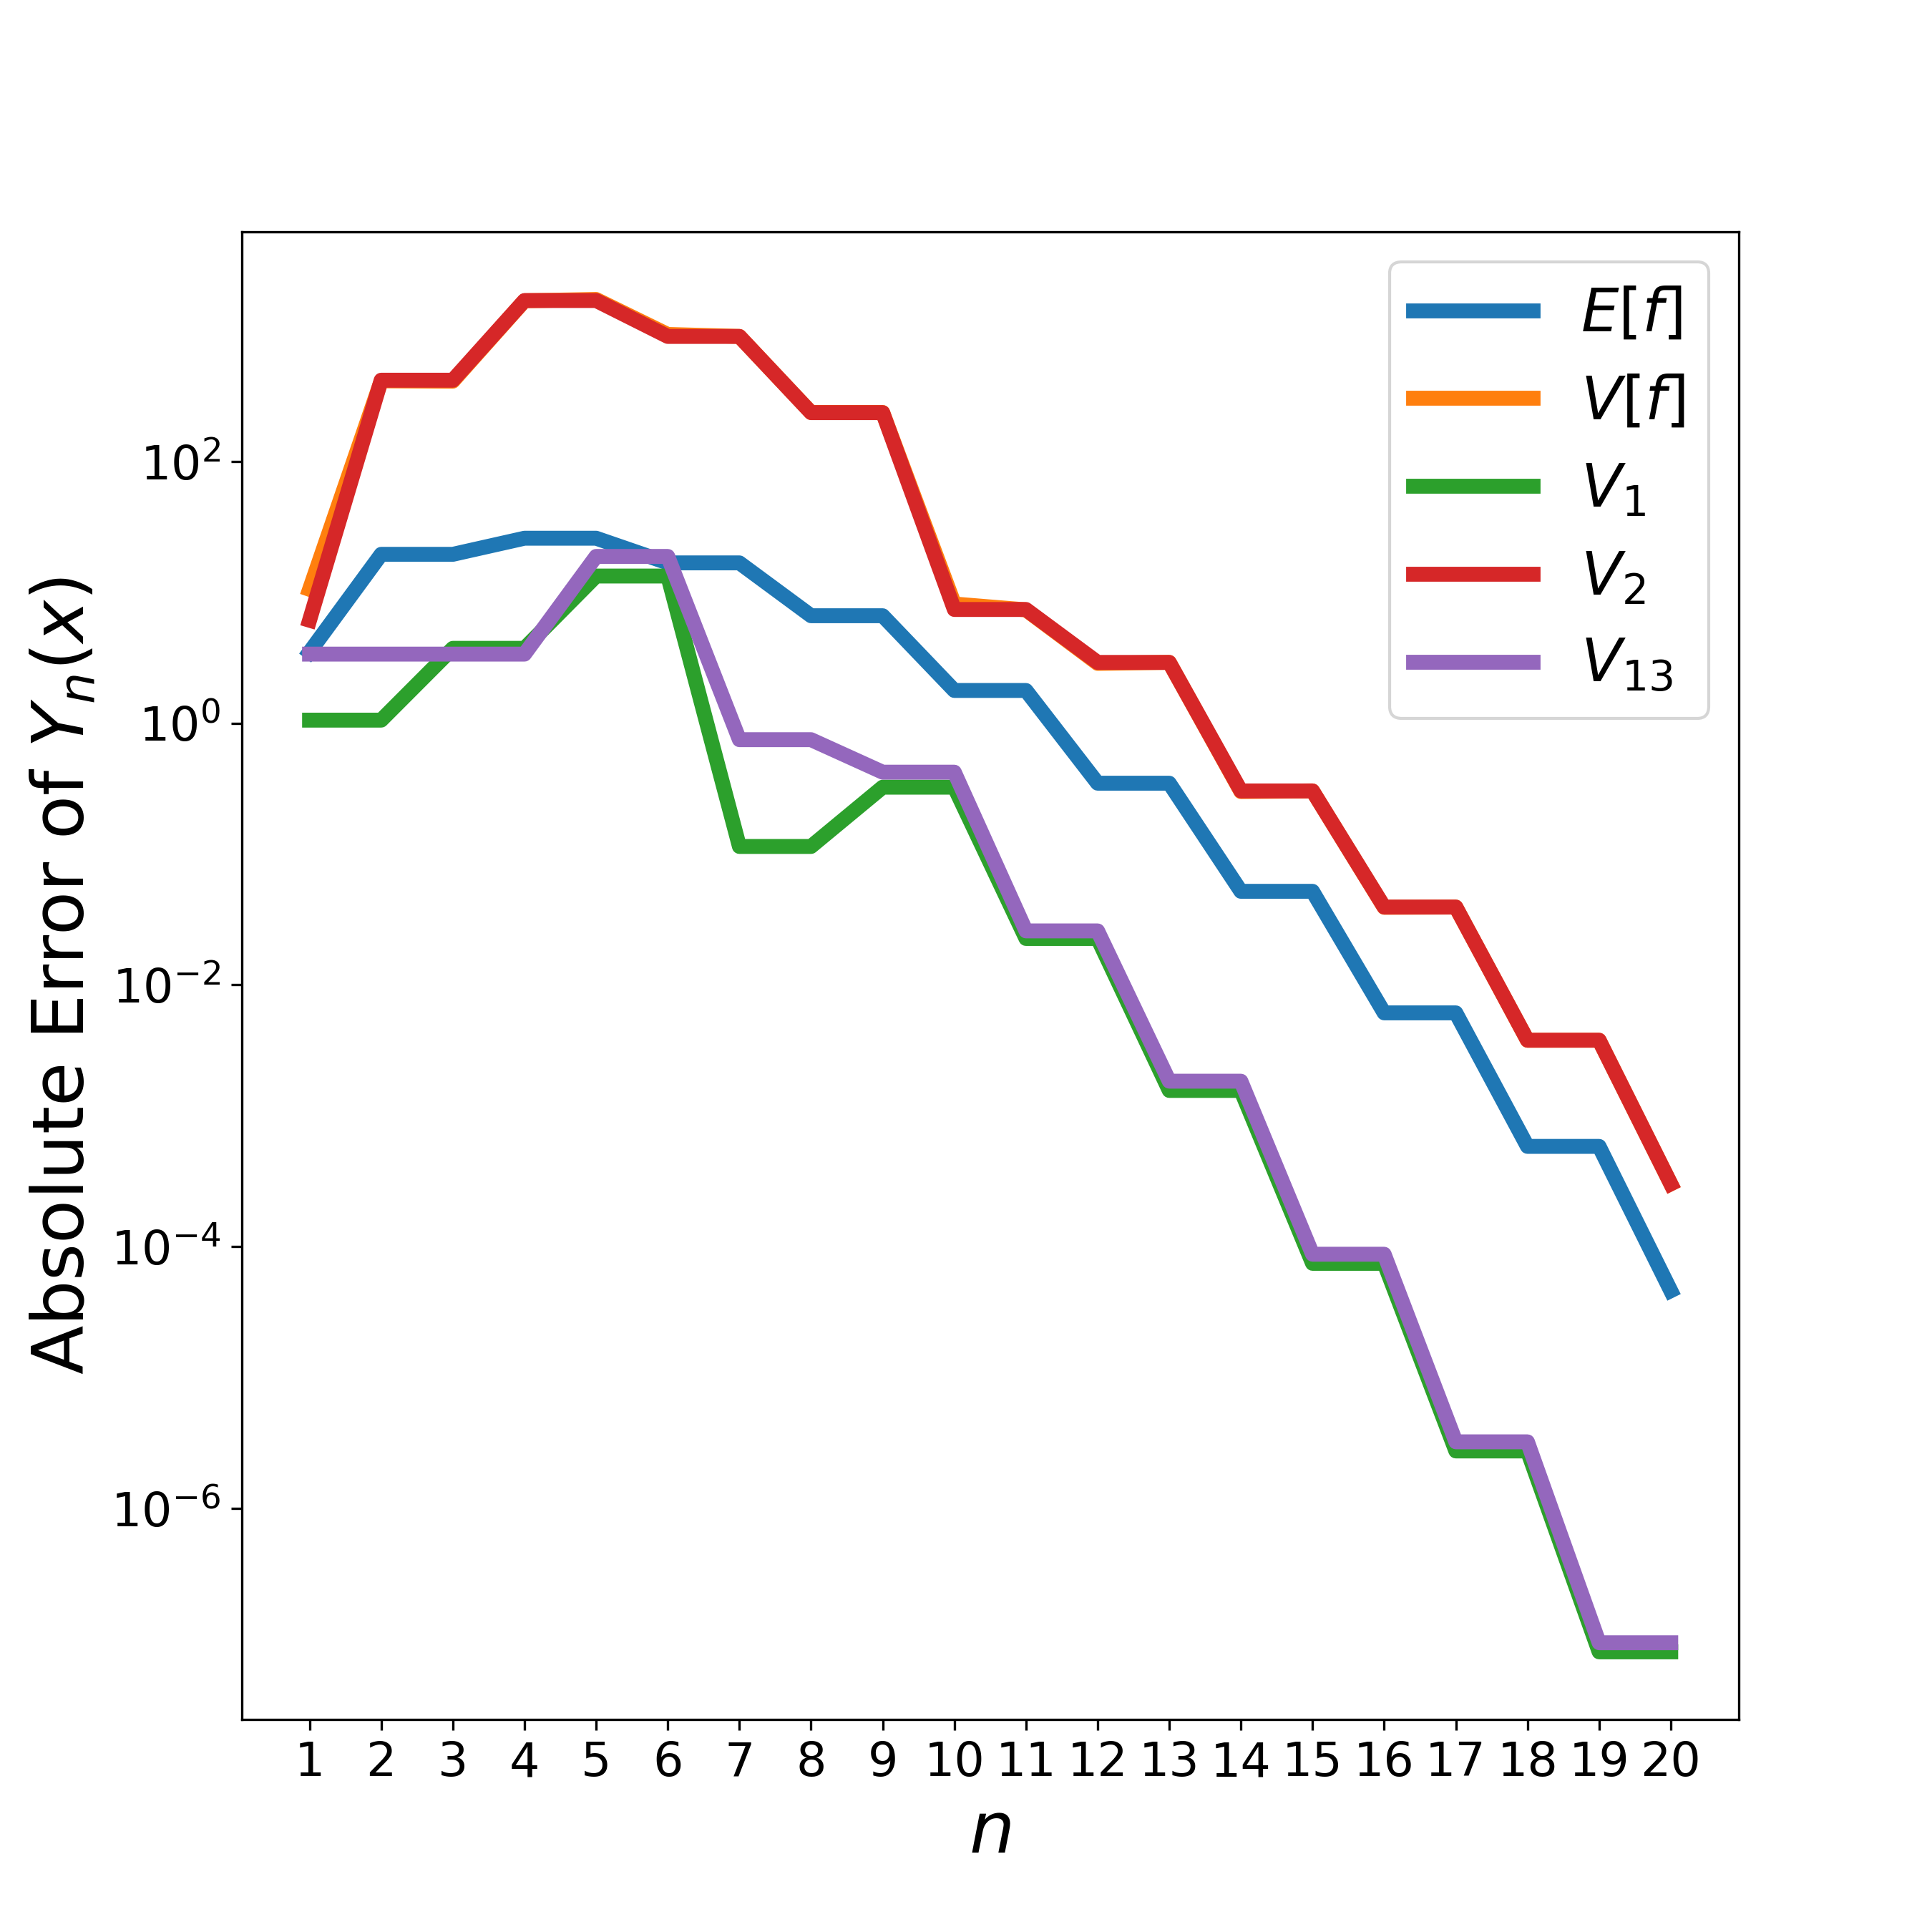
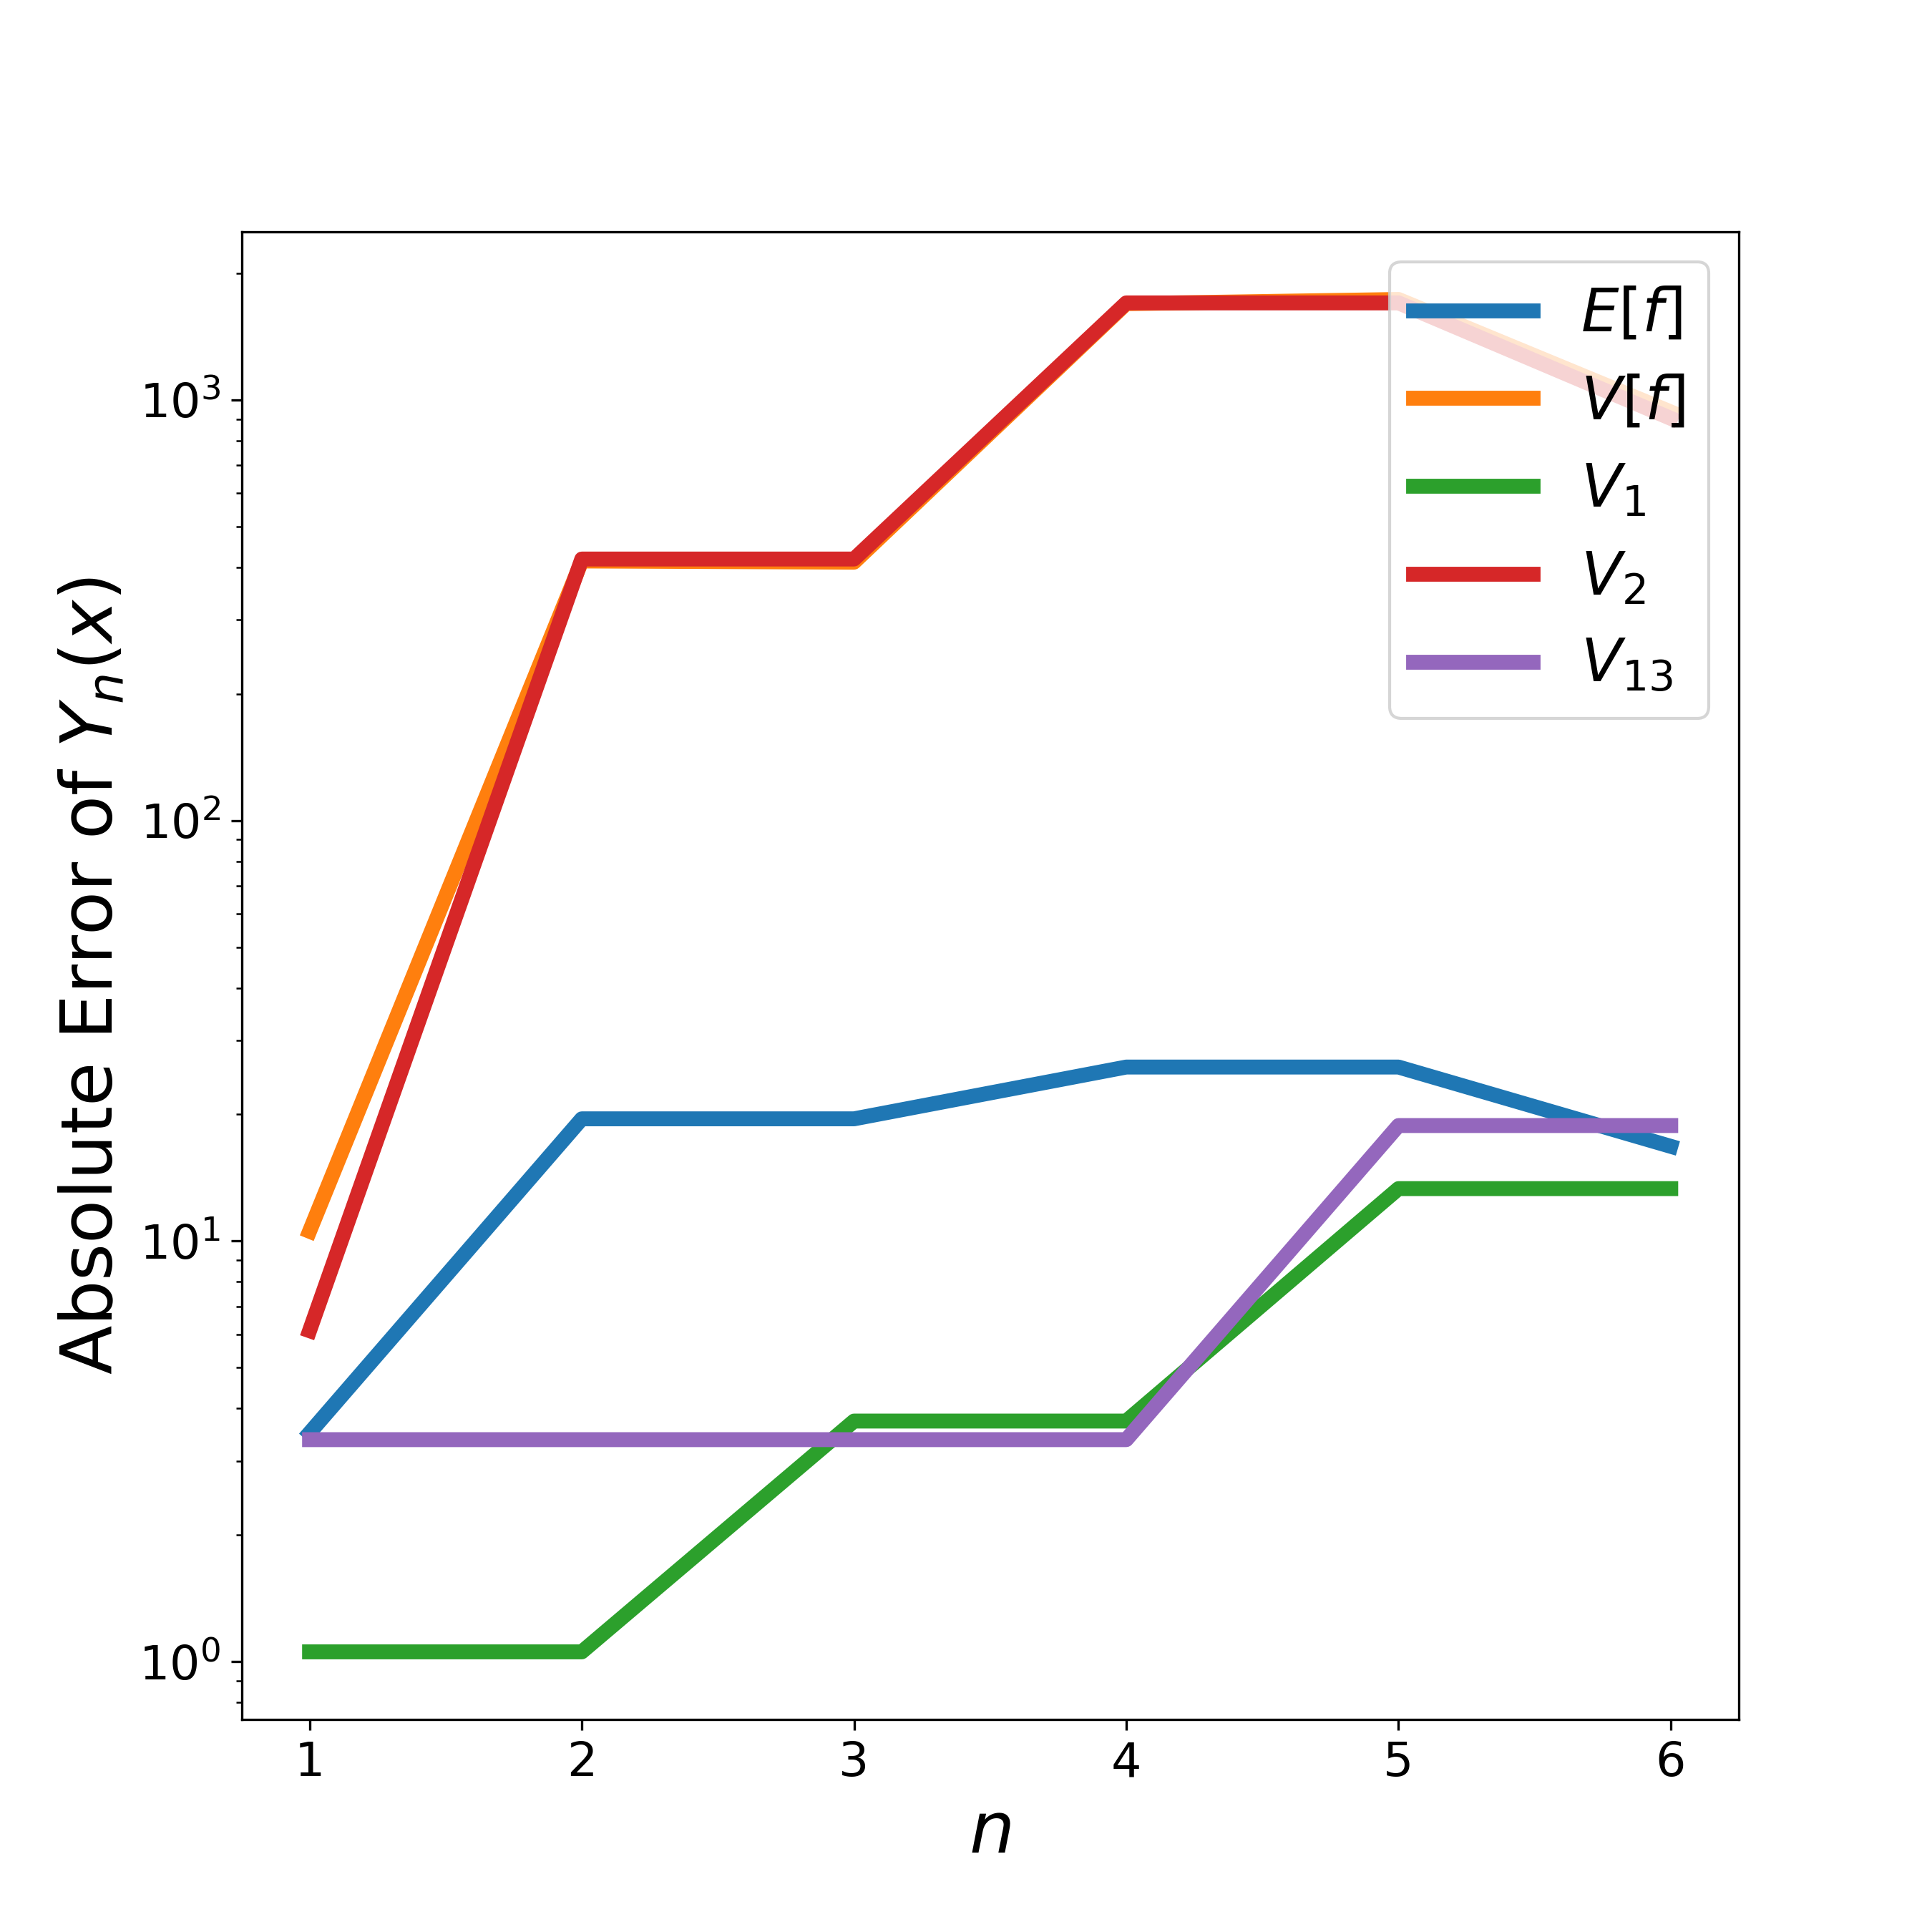
DOC: revisiting library after a while

diff --git a/examples/ishigami_paper_backup.py b/examples/ishigami_paper_backup.py
@@ -310,48 +310,6 @@ plt.legend(fontsize=20, loc='upper right')
 plt.axhline(0, color='k', lw=5)
 plt.savefig('plots/rel_err_rem_m2.png', format='PNG', transparent=True, dpi=300)
 
-"""
-plt.figure(figsize=(9,9))
-lw=5
-plt.semilogy(rem_orders+1, np.abs(y_ev_rem[:,1]), label=r'$E[f]$', lw=lw)
-plt.semilogy(rem_orders+1, np.abs(y_mu2_rem[:,1]), label=r'$V[f]$', lw=lw)
-plt.semilogy(rem_orders+1, np.abs(y_Vi_rem[:,1,0]), label=r'$V_{{1}}$', lw=lw)
-plt.semilogy(rem_orders+1, np.abs(y_Vi_rem[:,1,1]), label=r'$V_{{2}}$', lw=lw)
-plt.semilogy(rem_orders+1, np.abs(y_Vij_rem[:,1,1]), label=r'$V_{{13}}$', lw=lw)
-plt.xlabel(r'$n$', size=20)
-plt.ylabel(r'Error Approximation of $\varepsilon_{{2}}\left[\xi\left[Y_{{n}}\left(\boldsymbol{{x}}\right)\right]\right]$',size=20)
-ax = plt.gca()
-ax.tick_params('x', labelsize=16)
-ax.tick_params('y', labelsize=16)
-# ax.xaxis.set_major_locator(MaxNLocator(integer=True))
-ax.set_xticks(np.arange(min(rem_orders+1), max(rem_orders+1)+1, 1))
-plt.legend(fontsize=20, loc='upper right')
-plt.axhline(0, color='k', lw=2)
-#plt.ylim([-50,])
-plt.savefig('plots/rem_m2.png', format='PNG', transparent=True, dpi=300)
-#plt.show()
-
-
-plt.figure(figsize=(9,9))
-lw=5
-plt.semilogy(rem_orders+1, np.abs(Ef_rel_err[:,1]), label=r'$E[f]$', lw=lw)
-plt.semilogy(rem_orders+1, np.abs(mu2_rel_err[:,1]), label=r'$V[f]$', lw=lw)
-plt.semilogy(rem_orders+1, np.abs(Vi_rel_err[:,1,0]), label=r'$V_{{1}}$', lw=lw)
-plt.semilogy(rem_orders+1, np.abs(Vi_rel_err[:,1,1]), label=r'$V_{{2}}$', lw=lw)
-plt.semilogy(rem_orders+1, np.abs(Vij_rel_err[:,1,1]), label=r'$V_{{13}}$', lw=lw)
-plt.xlabel(r'$n$', size=20)
-plt.ylabel(r'Absolute Relative Error of $\varepsilon_{{2}}\left[\xi\left[Y_{{n}}\left(\boldsymbol{{x}}\right)\right]\right]$', size=20)
-ax = plt.gca()
-ax.tick_params('x', labelsize=16)
-ax.tick_params('y', labelsize=16)
-# ax.xaxis.set_major_locator(MaxNLocator(integer=True))
-ax.set_xticks(np.arange(min(rem_orders+1), max(rem_orders+1)+1, 1))
-plt.legend(fontsize=20, loc='upper right')
-plt.axhline(0, color='k', lw=5)
-plt.savefig('plots/rel_err_rem_m2.png', format='PNG', transparent=True, dpi=300)
-#plt.show()
-"""
-
 # true error
 plt.figure(figsize=(9,9))
 lw=5

diff --git a/examples/ishigami_paper.py b/examples/ishigami_paper.py
@@ -44,7 +44,7 @@ rv_params = rv.rv_mean_from_ab([rv_pdf_name, rv_a, rv_b])
 # print(rv_params)
 
 # order of Taylor series expansion
-tse_order_max = 22
+tse_order_max = 8
 
 
 # random variable(s) with nominal values at the mean and perturbed with OTI imaginary directions